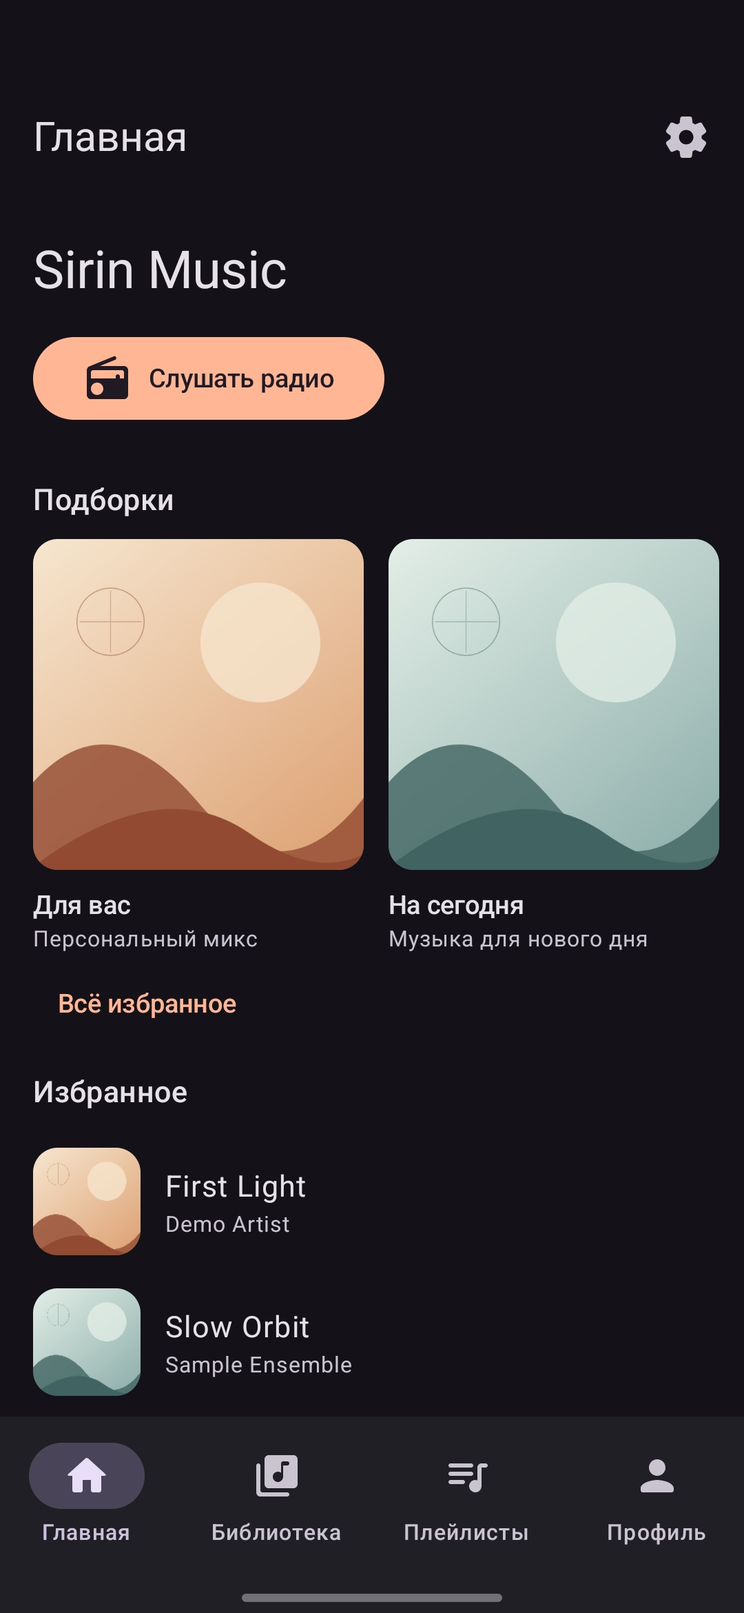
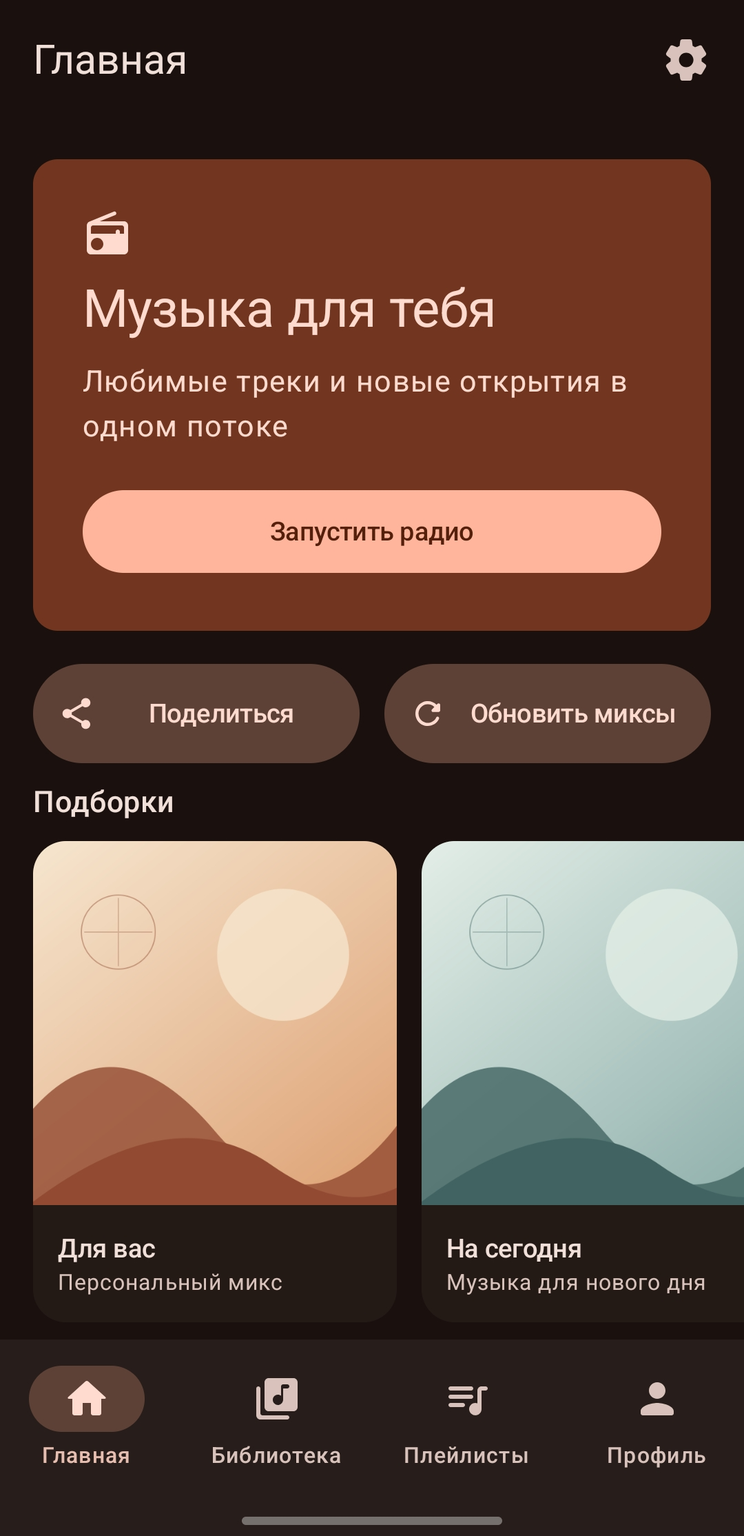
Подготовить Sirin Music 2.0.0 к выпуску

diff --git a/README.md b/README.md
@@ -8,36 +8,90 @@
 
 Kotlin, Jetpack Compose и AndroidX Media3. Android 8.1 и новее.
 
-## Разработка версии 2.0
+## Sirin Music 2.0
 
-В ветке `dev` ведётся работа над **Sirin Music 2.0**: переработкой Activity, экранов и навигации приложения. Основные направления:
+Версия 2.0 обновляет главный экран, профиль, настройки и подключение. Вход доступен по QR, имени и паролю или API-токену. Аккаунт, профили, устройства и серверные настройки открываются в отдельных окнах.
 
-- Разделить профиль и настройки приложения: оформление, палитры, кеш и обновления разместить в настройках.
-- Переработать профиль: добавить управление вкусом и новизной радио, статистику прослушивания, настроения, скрытые треки и ссылки для передачи радио.
-- Обновить главный экран и добавить действия запуска радио, передачи ссылки и обновления миксов.
-- Сделать оформление и навигацию единообразными по Material 3, с адаптацией к большим экранам.
-- Учесть уже добавленный в `dev` вход по QR-коду и подготовить поддержку входа по логину и паролю после проверки API сервера.
-
-Это план разрабатываемой версии; перечисленные изменения ещё не реализованы полностью. Скриншоты ниже показывают существующий интерфейс. Стабильная версия находится в ветке `master` и доступна в [Releases](https://github.com/fenixvd/SirinMusic/releases). Информация о тестовых сборках — в [документации разработки](docs/DEVELOPMENT.md).
+Стабильные APK доступны в [Releases](https://github.com/fenixvd/SirinMusic/releases). Основная ветка — `master`, разработка ведётся в `dev`.
 
 ## Скриншоты
 
 <p align="center">
   <img src="docs/screenshots/home.jpg" width="220" alt="Главная: радио и персональные подборки">
-  <img src="docs/screenshots/library.jpg" width="220" alt="Библиотека с поиском и избранным">
   <img src="docs/screenshots/player.jpg" width="220" alt="Проигрыватель и оценки трека">
-</p>
-<p align="center">
-  <img src="docs/screenshots/playlists.jpg" width="220" alt="Пользовательские плейлисты">
   <img src="docs/screenshots/settings.jpg" width="220" alt="Настройки темы и палитры">
-  <img src="docs/screenshots/about.jpg" width="220" alt="О приложении Sirin Music">
 </p>
-
 
 <details>
-<summary>Демонстрационный профиль</summary>
+<summary>Библиотека, плейлисты и профиль</summary>
 
-<img src="docs/screenshots/profile.jpg" width="220" alt="Профиль с вымышленной статистикой прослушивания">
+<p align="center">
+  <img src="docs/screenshots/library.jpg" width="220" alt="Библиотека с поиском и избранным">
+  <img src="docs/screenshots/playlists.jpg" width="220" alt="Пользовательские плейлисты">
+  <img src="docs/screenshots/profile.jpg" width="220" alt="Профиль и статистика прослушивания">
+</p>
+
+<p align="center">
+  <img src="docs/screenshots/profile-discovery.jpg" width="220" alt="Границы новизны радио">
+  <img src="docs/screenshots/profile-statistics.jpg" width="220" alt="Недельная статистика радио">
+  <img src="docs/screenshots/profile-contexts.jpg" width="220" alt="Настроения и скрытые записи">
+</p>
+<p align="center">
+  <img src="docs/screenshots/profile-share.jpg" width="220" alt="Ссылки на радио">
+</p>
+
+</details>
+
+<details>
+<summary>Подключение и QR</summary>
+
+<p align="center">
+  <img src="docs/screenshots/login.jpg" width="220" alt="Вход по имени и паролю или токену">
+  <img src="docs/screenshots/qr-permission.jpg" width="220" alt="Разрешение доступа к камере для сканирования QR">
+  <img src="docs/screenshots/qr-scanner.jpg" width="220" alt="Сканирование QR и выбор изображения">
+  <img src="docs/screenshots/connection.jpg" width="220" alt="Настройки подключения">
+</p>
+
+</details>
+
+<details>
+<summary>Аккаунт, профили и пользователи</summary>
+
+<p align="center">
+  <img src="docs/screenshots/account.jpg" width="220" alt="Аккаунт и выбор профиля">
+  <img src="docs/screenshots/devices.jpg" width="220" alt="Устройства и токены">
+  <img src="docs/screenshots/users.jpg" width="220" alt="Управление пользователями и приглашениями">
+</p>
+<p align="center">
+  <img src="docs/screenshots/account-login.jpg" width="220" alt="Вход для управления аккаунтом">
+  <img src="docs/screenshots/account-profiles.jpg" width="220" alt="Создание и переименование профиля">
+  <img src="docs/screenshots/invitations.jpg" width="220" alt="Создание приглашения">
+</p>
+
+</details>
+
+<details>
+<summary>Настройки сервера</summary>
+
+<p align="center">
+  <img src="docs/screenshots/server-settings.jpg" width="220" alt="Адрес сервера и доступ по сети">
+  <img src="docs/screenshots/server-library.jpg" width="220" alt="Папка музыкальной библиотеки">
+  <img src="docs/screenshots/server-connection.jpg" width="220" alt="Подключение телефона к серверу">
+</p>
+<p align="center">
+  <img src="docs/screenshots/server-qr.jpg" width="220" alt="QR для подключения приложения">
+</p>
+
+</details>
+
+<details>
+<summary>Хранилище, обновления и приложение</summary>
+
+<p align="center">
+  <img src="docs/screenshots/storage.jpg" width="220" alt="Хранилище и очистка кеша">
+  <img src="docs/screenshots/updates.jpg" width="220" alt="Проверка обновлений приложения">
+  <img src="docs/screenshots/about.jpg" width="220" alt="О приложении Sirin Music">
+</p>
 
 </details>
 
@@ -49,15 +103,21 @@ Kotlin, Jetpack Compose и AndroidX Media3. Android 8.1 и новее.
 - **Избранное и обучение вкуса:** сердечки сохраняют треки, исполнителей и альбомы; оценки «нравится» и «не нравится» обучают профиль рекомендаций. Дизлайк не переключает трек автоматически.
 - **Системный плеер:** фоновое воспроизведение, шторка и экран блокировки, пауза, предыдущий и следующий трек, кнопка лайка. Возврат назад использует историю серверной сессии.
 - **Тексты песен:** обычный текст и синхронный LRC, подсветка строк, следование за воспроизведением и переход к строке по нажатию.
-- **Оформление:** системная, светлая и тёмная темы, цвета из обоев на Android 12+, четыре встроенные палитры, нижняя навигация или боковая панель на широком экране.
-- **Подключение:** проверка сервера до сохранения, API-токен в зашифрованном хранилище, исключённом из резервных копий Android.
+- **Оформление:** системная, светлая и тёмная темы, цвета из обоев на Android 12+, десять встроенных палитр, нижняя навигация или боковая панель на широком экране.
+- **Подключение:** QR с камеры или изображения, вход по имени и паролю либо токену, проверка сервера перед сохранением. API-токен хранится зашифрованно и исключён из резервных копий Android.
+- **Профиль радио:** границы новизны, недельная статистика, настроения, скрытые записи и ссылки на радио.
+- **Аккаунты:** смена пароля, создание и выбор профилей, управление устройствами и токенами; приглашения и права пользователей для администраторов. Управление аккаунтом требует HTTPS и отдельного входа.
+- **Сервер:** адрес, порт, музыкальная папка и подключение телефона. Доступность сохранения и перезапуска зависит от прав и возможностей сервера.
+- **Синхронизация:** восстановление действующей сессии на паузе, сохранение позиции и передача управления между устройствами при поддержке сервера.
+- **Фото артистов:** фотографии с сервера с запасной обложкой и общим кешем изображений.
+- **Обновления:** отдельный экран проверки, загрузки и установки подписанных стабильных APK. Проверки при запуске и в фоне выключены по умолчанию.
 
 Очередь и рекомендации выбирает сервер. Конец фиксированного плейлиста останавливает воспроизведение. API, аудио и обложки используют общий сетевой клиент; авторизация ограничена настроенным сервером. При недействительном токене приложение возвращается ко входу.
 
 ## Подключение
 
 1. Установи APK, собранный локально или опубликованный через Releases этого репозитория.
-2. Нажми «Сканировать QR-код» и наведи камеру на код из веб-интерфейса musik (*Профиль → Настройки → «Показать QR»*) — адрес и токен подставятся сами. Код можно отсканировать и системной камерой: ссылка `musik://connect` откроет приложение. Или введи адрес сервера и API-токен вручную.
+2. Нажми «Сканировать QR-код» и наведи камеру на код из веб-интерфейса musik (*Профиль → Настройки → «Показать QR»*) — адрес и токен подставятся сами. Код можно отсканировать и системной камерой: ссылка `musik://connect` откроет приложение. QR также можно выбрать из изображения. Или укажи адрес сервера и войди по имени и паролю либо введи API-токен.
 3. После загрузки библиотеки выбери радио, подборку или трек.
 
 QR распознаётся на устройстве (ZXing), без Google Play services и сетевых запросов.

diff --git a/docs/DEVELOPMENT.md b/docs/DEVELOPMENT.md
@@ -2,47 +2,13 @@
 
 Работа над следующей версией ведётся в `dev`. Стабильная ветка — `master`; изменения переносятся туда после проверки и решения о выпуске. Pull request следует направлять в `dev`.
 
-## Текущий этап интерфейса
+## Состояние версии 2.0
 
-Первый этап переработки уже подготовлен в `dev`:
+Главная, профиль и настройки переработаны. Настройки разделены на оформление, хранилище и подключение; аккаунт, сервер, обновления и информация о приложении открываются отдельно. На широких экранах используются навигационная панель и адаптивные сетки.
 
-- Настройки разделены на оформление, хранилище и подключение; обновления и информация о приложении открываются из общего меню с иконками.
-- На компактном экране раздел открывается отдельно, от 840 dp список разделов и содержимое располагаются рядом. Выбранный раздел сохраняется при пересоздании Activity.
-- В профиле отдельно показаны состояние вкуса, доступная статистика и музыкальный сервер; настройки и информация о разработчике перенесены в меню настроек. Выход требует подтверждения.
-- Обновлены карточка радио на главной, оформление подборок, входа и ограничение ширины экрана информации о приложении.
+Профиль поддерживает границы новизны, недельную статистику, настроения, скрытые записи и ссылки на радио. Главная предлагает запуск радио, передачу ссылки и обновление миксов. Вход доступен по QR, имени и паролю или токену. Добавлены синхронизация воспроизведения и фото артистов.
 
-Новые серверные функции профиля, вход по логину и паролю, создание ссылок на радио и обновление миксов пока ожидают проверки и поддержки API. Текущий интерфейс показывает только уже доступные данные.
-
-## План версии 2.0
-
-Главная задача — переработать Activity, экраны и навигацию приложения с единым оформлением Material 3 и адаптацией к компактным и большим экранам. Пункты ниже описывают план, а не уже готовые функции.
-
-### Настройки приложения
-
-Отделить настройки приложения от профиля пользователя. Собрать здесь тему, цвета из обоев, готовые палитры и свой цвет, размер и очистку кеша, ручную проверку обновлений и два независимых переключателя автоматической проверки. Проверки при запуске и в фоне должны оставаться выключенными по умолчанию.
-
-### Профиль и радио
-
-Добавить данные и действия, доступные на сервере musik:
-
-- Состояние обучения вкуса, количество лайков и скипов, текущую долю новых треков и часто звучащих исполнителей.
-- Нижнюю и верхнюю границы новизны радио с сохранением на сервере.
-- Статистику радио за неделю: треки, дослушивания, скипы, исполнители и источники рекомендаций.
-- Выбор нескольких настроений, отображение и изменение активных настроений.
-- Список временно скрытых объектов и возврат последнего скрытого.
-- Создание и просмотр ссылок на радио для других слушателей.
-
-Перед реализацией проверить актуальные контракты API сервера. Все значения получать с сервера; примеры статистики не использовать как константы. Предусмотреть загрузку, ошибки, пустые состояния и отсутствие функций в старой версии сервера.
-
-### Главный экран и навигация
-
-Добавить действия «Запустить радио», «Поделиться» и «Обновить миксы». Пересмотреть переходы между экранами, расположение элементов и поведение на разных размерах окна. Для пунктов меню можно добавить смысловые иконки Material, сохранив текстовые подписи и доступность.
-
-### Подключение
-
-Сохранить и учесть вход по QR-коду из PR #1, уже добавленный в `dev`: сканирование внутри приложения и ссылки `musik://connect`. При QR без токена очищать прежний токен; ожидающее подключение должно сохраняться при пересоздании Activity.
-
-Подготовить вход по логину и паролю после проверки серверного API: формат запросов, результат авторизации, срок жизни и обновление учётных данных. Новый способ входа пока запланирован; его контракт и окончательная структура экрана ещё не утверждены.
+Управление аккаунтом и администраторами требует отдельной cookie-сессии через HTTPS. Возможности новых разделов зависят от серверного API; отсутствие поддержки и ошибки отображаются в соответствующем разделе. Подробнее о контрактах и ограничениях — ниже.
 
 ## Проверка изменений
 
@@ -56,7 +22,7 @@
 
 Текущий CI проверяет `master` и `dev`. Debug APK доступен в артефакте `sirin-music-debug`; при push в `dev` дополнительно собирается оптимизированный APK с подписью приложения.
 
-Текущая локальная тестовая версия — `2.0rc0.2-dev`. После публикации изменений в `dev` CI сохранит подписанный APK в артефакте `sirin-music-2.0rc0.2-dev`. Старый тег `1.5-dev` остаётся в истории и в триггерах workflow; для текущей работы новый тег не создаётся. Тестовые артефакты не публикуются как GitHub Release и не предлагаются встроенной проверкой обновлений.
+Подготовленная версия — `2.0.0`, код версии — `3`. После push в `dev` CI сохранит подписанный APK в артефакте `sirin-music-2.0.0`. Старый тег `1.5-dev` остаётся в истории и в триггерах workflow; для текущей работы новый тег не создаётся. Тестовые артефакты не публикуются как GitHub Release и не предлагаются встроенной проверкой обновлений.
 
 Версия 2.0 выпускается после завершения работ и проверки. Порядок подписи и публикации описан в [RELEASING.md](RELEASING.md).
 

diff --git a/docs/RELEASING.md b/docs/RELEASING.md
@@ -4,11 +4,13 @@
 
 ## Подготовка версии 2.0
 
-Версия 2.0 разрабатывается в `dev`; план переработки экранов и подключения описан в [DEVELOPMENT.md](DEVELOPMENT.md). Перед выпуском проверить изменения на устройстве, совместимость с API сервера и обновление поверх установленной стабильной версии. Затем перенести проверенные изменения в `master` и публиковать релиз по отдельному решению о выпуске.
+Версия 2.0 разрабатывается в `dev`; реализованные экраны и контракты описаны в [DEVELOPMENT.md](DEVELOPMENT.md). Перед выпуском проверить изменения на устройстве, совместимость с API сервера и обновление поверх установленной стабильной версии. Затем перенести проверенные изменения в `master` и публиковать релиз по отдельному решению о выпуске.
 
-Тестовые APK из `dev` доступны в артефактах CI. Текущая локальная тестовая версия — `2.0rc0.2-dev`; после push проверенных изменений CI создаст артефакт `sirin-music-2.0rc0.2-dev`. Выпуск тестового APK не создаёт тег или Release.
+Тестовые APK из `dev` доступны в артефактах CI. Подготовленная версия — `2.0.0`, `versionCode=3`; после push CI создаст артефакт `sirin-music-2.0.0`. Выпуск тестового APK не создаёт тег или Release.
 
 Команды ниже — примеры будущего выпуска 2.0.0, а не указание публиковать его сейчас. Использовать существующий ключ подписи APK и возрастающий `versionCode`.
+
+Версия 1.5.0 выпущена с `versionCode=2`; для 2.0.0 подготовлен код `3`. После публикации следует отдельно проверить встроенное обновление с 1.5.0 на физическом устройстве. Эта проверка не заменяется установкой нового APK через ADB.
 
 ## Ключ подписи APK
 
@@ -46,7 +48,7 @@ base64 -w 0 /secure/path/sirin-release.jks | gh secret set SIRIN_KEYSTORE_BASE64
 
 ```sh
 export SIRIN_VERSION_NAME=2.0.0
-# Укажи числовой SIRIN_VERSION_CODE выше последнего выпущенного.
+export SIRIN_VERSION_CODE=3
 ./gradlew :app:testDebugUnitTest :app:lintRelease :app:assembleRelease
 "$ANDROID_HOME/build-tools/37.0.0/apksigner" verify --verbose \
   app/build/outputs/apk/release/app-release.apk

diff --git a/docs/releases/2.0.0.md b/docs/releases/2.0.0.md
@@ -1,0 +1,17 @@
+# Sirin Music 2.0.0
+
+Обновлены главный экран, профиль, настройки и подключение к musik. Управление аккаунтом, сервером и обновлениями открывается в отдельных окнах.
+
+- Вход по имени и паролю, API-токену или QR; сканирование камерой, выбор изображения и ручная ссылка.
+- Аккаунты и профили: смена пароля, создание, переименование, выбор профиля, устройства и токены. Для администратора — приглашения, пользователи и права доступа.
+- Профиль радио: границы новизны, статистика за неделю, настроения, временно скрытые записи и ссылки на радио.
+- Главная: запуск радио, передача ссылки и обновление миксов.
+- Настройки сервера: сеть, порт, папка музыки, адрес телефона и QR. Перезапуск доступен, если сервер его поддерживает.
+- Синхронизация позиции воспроизведения между устройствами; восстановление действующей сессии на паузе.
+- Фотографии артистов с сервера с запасной обложкой.
+- Десять палитр, собственный цвет, адаптивные экраны и ограниченный кеш обложек.
+- Проверка и загрузка стабильных обновлений в отдельном окне. Проверки при запуске и в фоне выключены по умолчанию.
+
+Для управления аккаунтом нужен HTTPS и вход по имени и паролю. API-токен устройства используется отдельно для плеера. Новые функции требуют поддержки в сервере musik; фотографии артистов должны быть загружены на сервер заранее. В Docker возможность сохранения настроек и перезапуска зависит от конфигурации сервера.
+
+APK использует прежний сертификат подписи и обновляет Sirin Music 1.5.0 с сохранением настроек. Офлайн-загрузка музыки, редактор правил умных плейлистов и импорт/экспорт плейлистов пока не поддерживаются.
